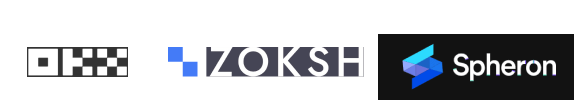
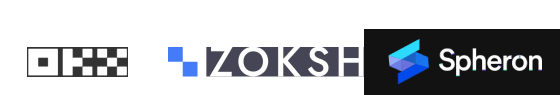
fixed front page sponsorship

Changed region(s): [[0.2732, 0.2947, 1.0, 1.0], [0.0304, 0.4632, 0.2429, 0.8211]]

diff --git a/models/models_app/src/components/mainpage/HomepageLoggedIn/CreateButton_statusDefaultBoug/CreateButton_statusDefaultBoug.module.css b/models/models_app/src/components/mainpage/HomepageLoggedIn/CreateButton_statusDefaultBoug/CreateButton_statusDefaultBoug.module.css
@@ -62,10 +62,21 @@
 .sponsorImageContainer {
   position: absolute;
   left: 1000px;  /* Adjust this value to move the image horizontally */
-  top: 2030px;  /* Adjust this value to move the image vertically */
+  top: 2060px;  /* Adjust this value to move the image vertically */
 }
 
 .sponsorclass {
+  width: 550px; /* Adjust to make the image larger or smaller */
+  height: auto; /* Keep the aspect ratio of the image */
+}
+
+.fullsponsorImageContainer {
+  position: absolute;
+  left: 300px;  /* Adjust this value to move the image horizontally */
+  top: 730px;  /* Adjust this value to move the image vertically */
+}
+
+.fullsponsorclass {
   width: 550px; /* Adjust to make the image larger or smaller */
   height: auto; /* Keep the aspect ratio of the image */
 }

diff --git a/models/models_app/src/components/mainpage/HomepageLoggedIn/CreateButton_statusDefaultBoug/CreateButton_statusDefaultBoug.tsx b/models/models_app/src/components/mainpage/HomepageLoggedIn/CreateButton_statusDefaultBoug/CreateButton_statusDefaultBoug.tsx
@@ -8,6 +8,7 @@ import LocalMallIcon from '@mui/icons-material/LocalMall';
 import { enableOKXWallet } from './okxIntegration';
 import zokshUrl from '../../../../zoksh';
 import sponsorImage from './sponsor.png';
+import fullsponsorImage from './fullsponsor.png'
 
 interface Props {
   className?: string;
@@ -105,6 +106,10 @@ export const CreateButton_statusDefaultBoug: FC<Props> = memo(function CreateBut
 
       <div className={classes.sponsorImageContainer}>
       <img src={sponsorImage} alt="" className={classes.sponsorclass} />
+</div>
+
+      <div className={classes.fullsponsorImageContainer}>
+      <img src={fullsponsorImage} alt="" className={classes.fullsponsorclass} />
 </div>
 
     </>
